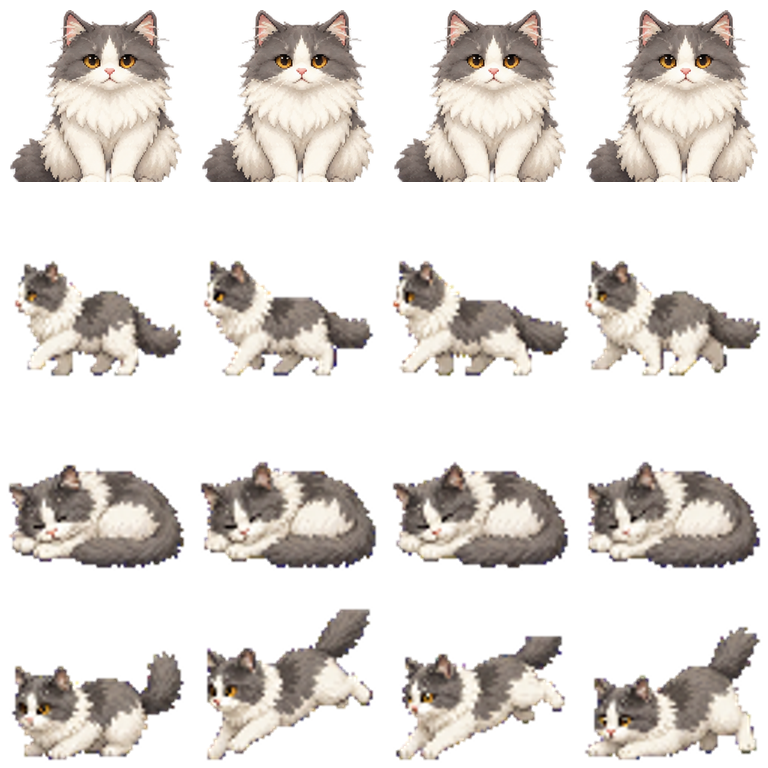
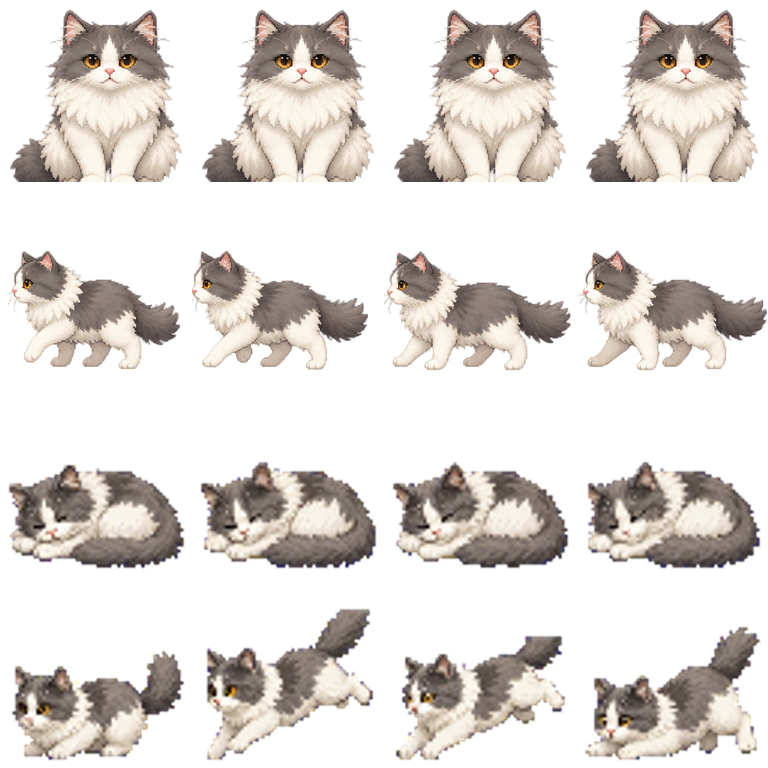
actions fixed

Changed region(s): [[0.0, 0.3125, 1.0, 0.5]]

diff --git a/src/renderer/lite-app.ts b/src/renderer/lite-app.ts
@@ -35,7 +35,7 @@
   }
   const buluActions = new Image();
   buluActions.src = '../assets/animated-pets/bulu-actions.webp';
-// Row order must match ACTIONS in scripts/build-bulu-actions.mjs.
+// Row order must match ACTIONS in scripts/build-bulu-art.mjs.
 type PetAction = 'wave' | 'groom' | 'stretch' | 'yawn' | 'scratch';
 const actionRows: Record<PetAction, number> = { wave: 0, groom: 1, stretch: 2, yawn: 3, scratch: 4 };
 /** Each atlas row is one action's whole sheet: 4x4 source frames in a row. */
@@ -387,9 +387,11 @@ const ACTION_FRAMES = 16;
         const row = action ? action.kind === 'yawn' ? 2 : 3 : state === 'walk' ? 1 : state === 'sleep' ? 2 : state === 'click' ? 3 : 0;
         const size = 132 * sizeScale;
         const x = 150 - size / 2, y = 293 - size + bob;
-        // Bulu is a drawn illustration, not pixel art: nearest-neighbour would
-        // alias the 64 px sprite up to 132 px.
+        // Bulu is a drawn illustration: smoothing preserves the fur details
+        // when the 192 px poses are scaled to the on-screen size.
         ctx.imageSmoothingEnabled = true;
+        // The original default sheet faces left in every row. Mirror it when
+        // the pet moves right, including its walking row.
         if (facing > 0) {
           ctx.translate(300, 0); ctx.scale(-1, 1);
         }
@@ -457,6 +459,8 @@ const ACTION_FRAMES = 16;
     if (event.buttons === 0) { release(); return; }
     if (!dragging && Math.hypot(event.screenX - pressAt.x, event.screenY - pressAt.y) > 5) {
       dragging = true; activity(); canvas.style.cursor = 'grabbing';
+      const initialDx = event.screenX - pressAt.x;
+      if (Math.abs(initialDx) >= 2) facing = initialDx < 0 ? -1 : 1;
       lastDragScreenX = event.screenX;
     }
     if (dragging) {

diff --git a/src/renderer/lite-settings.ts b/src/renderer/lite-settings.ts
@@ -266,7 +266,17 @@
   autoMove.addEventListener('change', () => void window.api.setConfig({ autoMove: autoMove.checked }));
   fileDropReactions.addEventListener('change', () => void window.api.setConfig({ fileDropReactions: fileDropReactions.checked }));
   standReminder.addEventListener('change', saveStandReminder);
-  standInterval.addEventListener('change', saveStandReminder);
+  standInterval.addEventListener('change', () => {
+    if (standInterval.value === 'custom') {
+      // Selecting Custom only reveals the editor. Saving the old value here
+      // broadcasts a config update that paints the preset back over it.
+      standCustomLabel.hidden = false;
+      standCustom.focus();
+      standCustom.select();
+      return;
+    }
+    saveStandReminder();
+  });
   standCustom.addEventListener('change', saveStandReminder);
   hourlyChime.addEventListener('change', () => void window.api.setConfig({ hourlyChime: hourlyChime.checked }));
   checkUpdateButton.addEventListener('click', async () => {

diff --git a/src/renderer/lite-settings.css b/src/renderer/lite-settings.css
@@ -30,7 +30,7 @@ header button { border: 0; background: transparent; }
 .setting span { display: flex; justify-content: space-between; margin-bottom: 6px; }
 .setting input { display: block; width: 100%; accent-color: #ea773b; }
 .setting select { display: block; width: 100%; font: inherit; color: inherit; padding: 5px 8px; border: 1px solid #e9cbb6; border-radius: 8px; background: white; }
-.check { display: flex; align-items: center; gap: 8px; margin: 14px 0; }
+.check { display: flex; width: fit-content; max-width: 100%; align-items: center; gap: 8px; margin: 14px 0; }
 .check input { accent-color: #ea773b; width: 17px; height: 17px; }
 .reminder-controls { display: flex; flex-wrap: wrap; align-items: center; gap: 10px; margin: 0 0 2px 25px; font-size: 13px; }
 .reminder-controls select, .reminder-controls input { font: inherit; color: inherit; padding: 5px 8px; border: 1px solid #e9cbb6; border-radius: 8px; background: white; }
